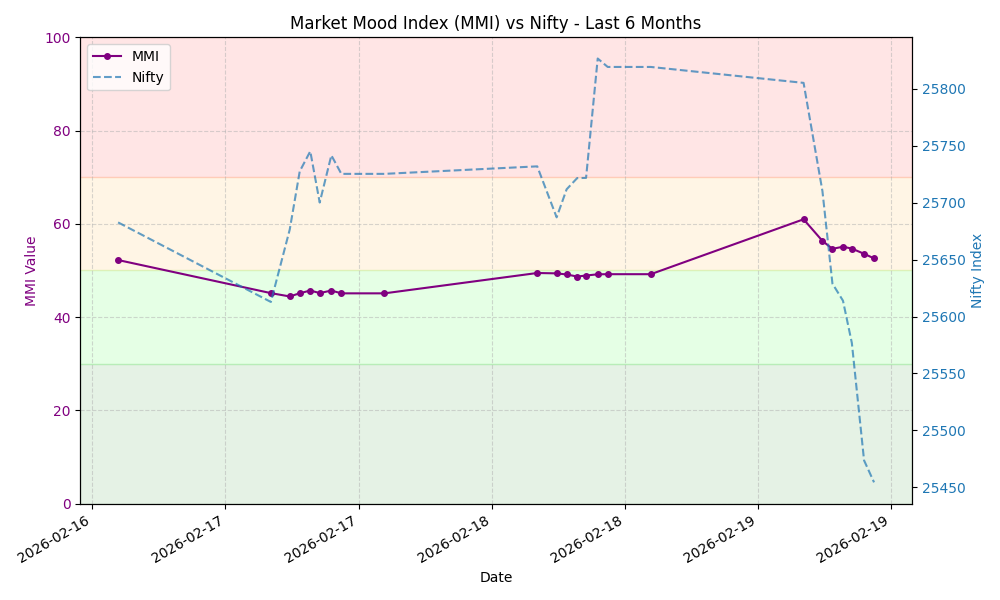
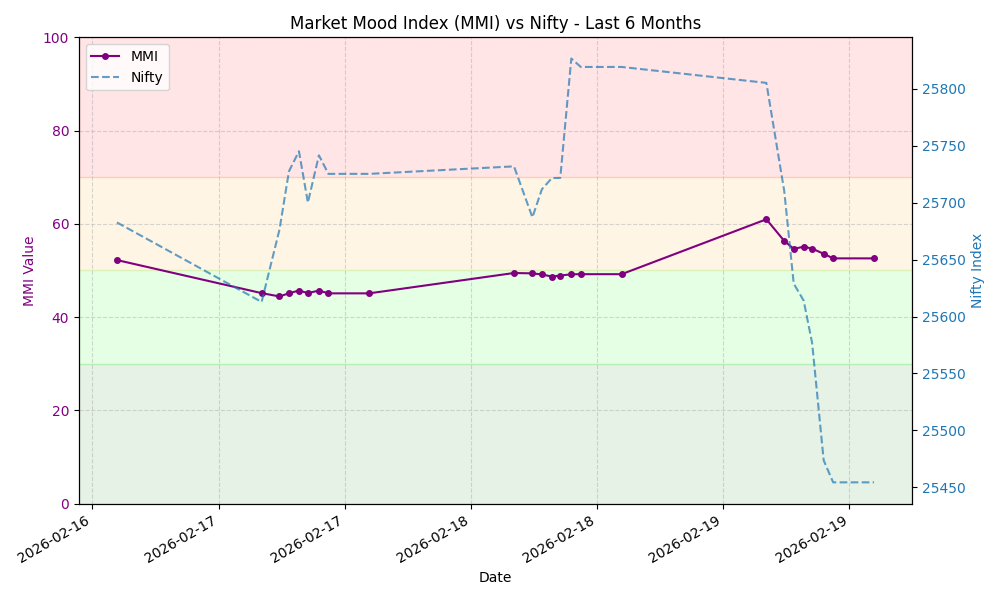
Update MMI data and chart

diff --git a/README.md b/README.md
@@ -8,7 +8,7 @@ This repository automatically fetches the MMI value, stores the history, and gen
 ## Latest MMI Value
 
 **52.59** - **Greed**
-<small>Last Updated: 2026-02-19 10:27 UTC</small>
+<small>Last Updated: 2026-02-19 14:20 UTC</small>
 
 ## MMI Trend (Last 30 Days)
 
